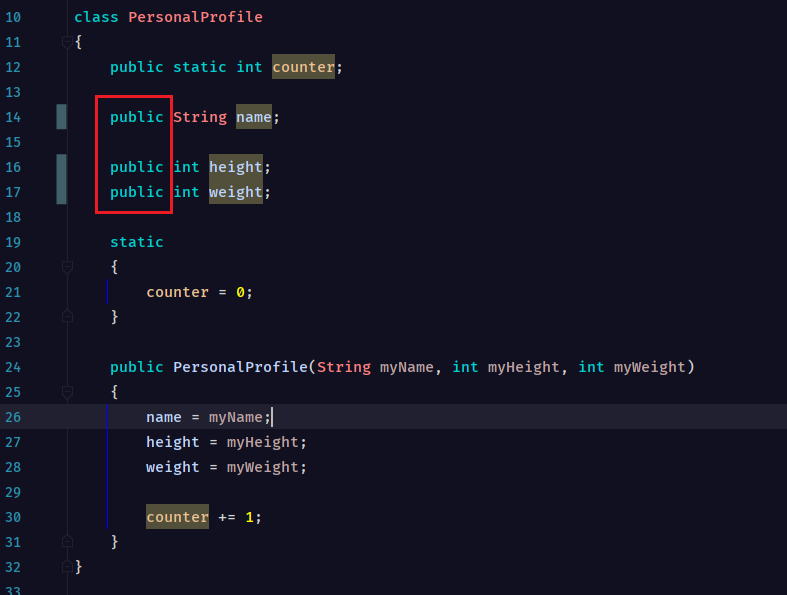
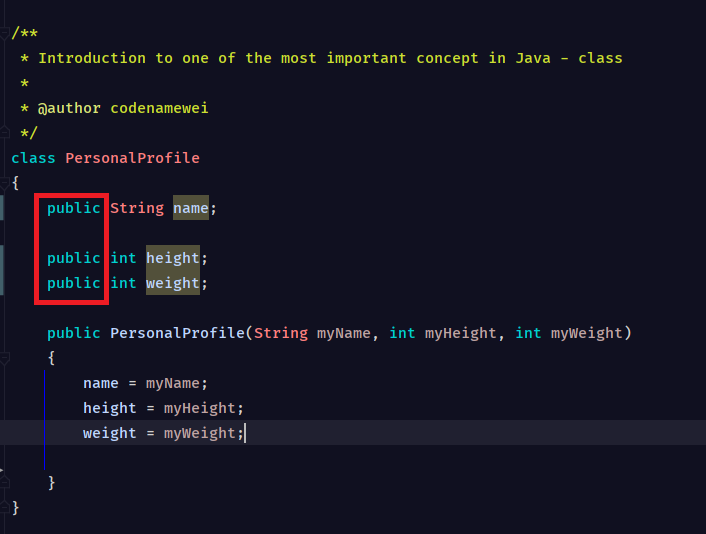
wip

diff --git a/java-core/src/main/java/ai/certifai/basic/ex3/BluePrint.java b/java-core/src/main/java/ai/certifai/basic/ex3/BluePrint.java
@@ -9,17 +9,10 @@ import ai.certifai.util.Evaluation;
  */
 class PersonalProfile
 {
-    public static int counter;
-
     private String name;
 
     private int height;
     private int weight;
-
-    static
-    {
-        counter = 0;
-    }
 
     public PersonalProfile(String myName, int myHeight, int myWeight)
     {
@@ -27,7 +20,6 @@ class PersonalProfile
         height = myHeight;
         weight = myWeight;
 
-        counter += 1;
     }
 }
 
@@ -40,7 +32,6 @@ public class BluePrint
     {
         PersonalProfile johnProfile = new PersonalProfile("John Doe", 165, 100);
 
-        eval.evaluatePerLine("Total Number: " + PersonalProfile.counter);
         /*
         eval.evaluatePerLine("Name: " + johnProfile.getName());
         eval.evaluatePerLine("Height: " + johnProfile.getHeight());

diff --git a/java-core/src/main/java/ai/certifai/basic/ex3/BluePrint.md b/java-core/src/main/java/ai/certifai/basic/ex3/BluePrint.md
@@ -22,7 +22,7 @@
  
 
 **What To Do**  
-1. Uncomment 3 lines of code [_from line 45 to 47_](https://github.com/CertifaiAI/java-fundamentals/blob/master/java-core/src/main/java/ai/certifai/basic/ex3/BluePrint.java#L45-L47)  
+1. Uncomment 3 lines of code [_from line 45 to 47_](https://github.com/CertifaiAI/java-fundamentals/blob/master/java-core/src/main/java/ai/certifai/basic/ex3/BluePrint.java#L35-L39)  
 2. Make the necessary addition of functions in the class [_PersonalProfile.class_]() to support item 1 to works.  
 
 **Example Code**  
@@ -57,8 +57,6 @@ Width: 100
  The **private** prevent outside entities from access the variables.  
  You can only deal with the **private** members through getter and setter functions. 
  
-- Keyword **static**: It exists by default and can run by itself (at the class level without creating an object)
-
 - **void**: Returns no value.  
 
 - There are access modifiers to select on the class, package, function, variables level.  
